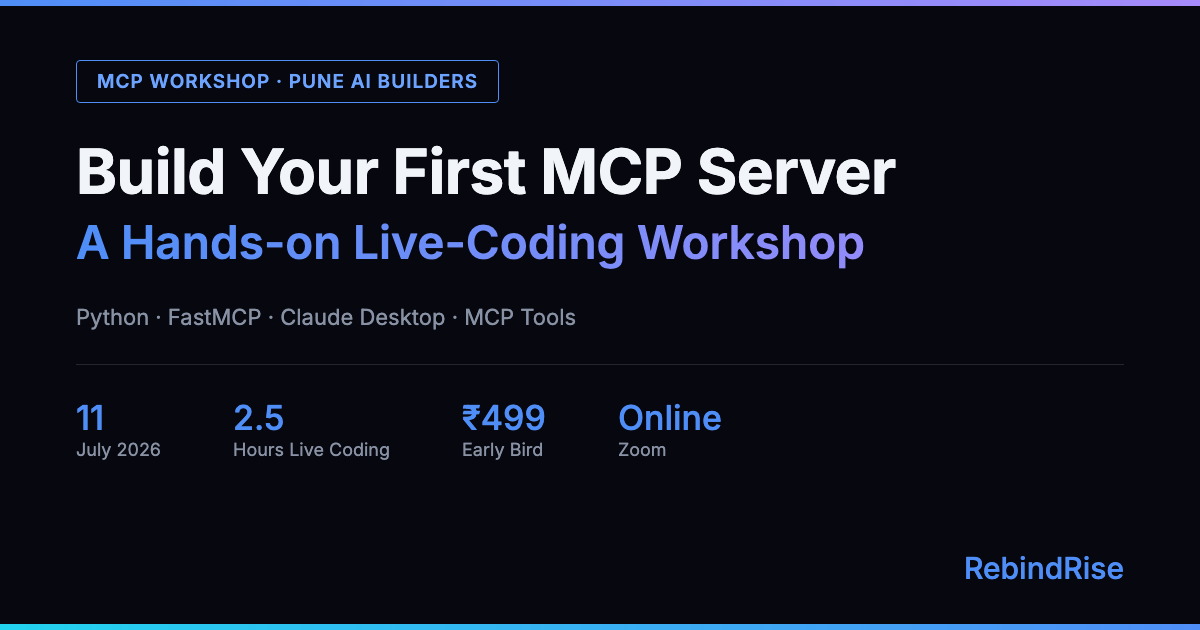
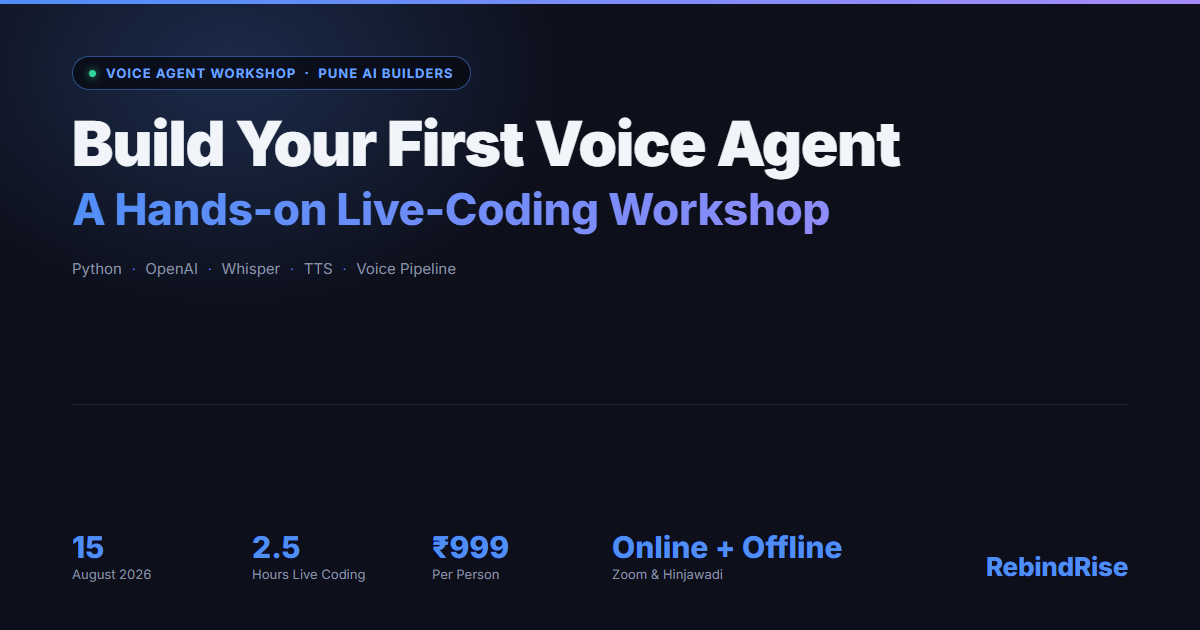
voice agent thumbnail image

diff --git a/workshops/voiceagent-15th-august.html b/workshops/voiceagent-15th-august.html
@@ -34,7 +34,7 @@
       "description": "A hands-on, live-coding Pune AI Builders workshop covering Voice Agent architecture, STT + LLM + TTS pipeline, and building a real-time voice conversation app.",
       "startDate": "2026-08-15T11:00:00+05:30",
       "endDate": "2026-08-15T13:30:00+05:30",
-      "eventAttendanceMode": "https://schema.org/OfflineEventAttendanceMode",
+      "eventAttendanceMode": "https://schema.org/MixedEventAttendanceMode",
       "eventStatus": "https://schema.org/EventScheduled",
       "location": {
         "@type": "Place",
@@ -361,7 +361,7 @@ height="0" width="0" style="display:none;visibility:hidden"></iframe></noscript>
     <!-- HERO -->
     <section id="hero">
         <div class="container">
-            <div class="eyebrow"><span class="dot"></span> Pune AI Builders &middot; In-Person Workshop</div>
+            <div class="eyebrow"><span class="dot"></span> Pune AI Builders &middot; Online + In-Person Workshop</div>
             <h1>Build Your First <span>Voice Agent</span><br />(Hands-on Workshop)</h1>
             <p class="sub">Voice is the next frontier for AI apps. Learn how to connect speech-to-text, an LLM, and text-to-speech into a real-time Voice Agent — live coding, no theory overload.</p>
 
@@ -376,11 +376,11 @@ height="0" width="0" style="display:none;visibility:hidden"></iframe></noscript>
                 </div>
                 <div class="meta-pill">
                     <svg width="16" height="16" viewBox="0 0 24 24" fill="none" stroke="currentColor" stroke-width="2"><path d="M21 10c0 7-9 13-9 13s-9-6-9-13a9 9 0 0118 0z"/><circle cx="12" cy="10" r="3"/></svg>
-                    Offline &middot; RebindRise Office, Hinjawadi
+                    Online + Offline &middot; Zoom &amp; Hinjawadi
                 </div>
-                <div class="meta-pill" style="border-color:rgba(251,146,60,0.4);color:#fb923c;">
-                    <svg width="16" height="16" viewBox="0 0 24 24" fill="none" stroke="currentColor" stroke-width="2"><circle cx="12" cy="12" r="10"/><line x1="12" y1="8" x2="12" y2="12"/><line x1="12" y1="16" x2="12.01" y2="16"/></svg>
-                    Paid Event
+                <div class="meta-pill" style="border-color:rgba(52,211,153,0.4);color:#34d399;">
+                    <svg width="16" height="16" viewBox="0 0 24 24" fill="none" stroke="currentColor" stroke-width="2"><line x1="12" y1="1" x2="12" y2="23"/><path d="M17 5H9.5a3.5 3.5 0 000 7h5a3.5 3.5 0 010 7H6"/></svg>
+                    &#8377;999
                 </div>
             </div>
 
@@ -394,7 +394,7 @@ height="0" width="0" style="display:none;visibility:hidden"></iframe></noscript>
                     Have a Question? WhatsApp Us
                 </a>
             </div>
-            <p class="price-note">Paid Event &middot; In-person at RebindRise Office, Hinjawadi, Pune &middot; Bring your laptop</p>
+            <p class="price-note">Paid Event &middot; &#8377;999 &middot; Online (Zoom) + In-Person (Hinjawadi, Pune) &middot; Bring your laptop</p>
         </div>
     </section>
 
